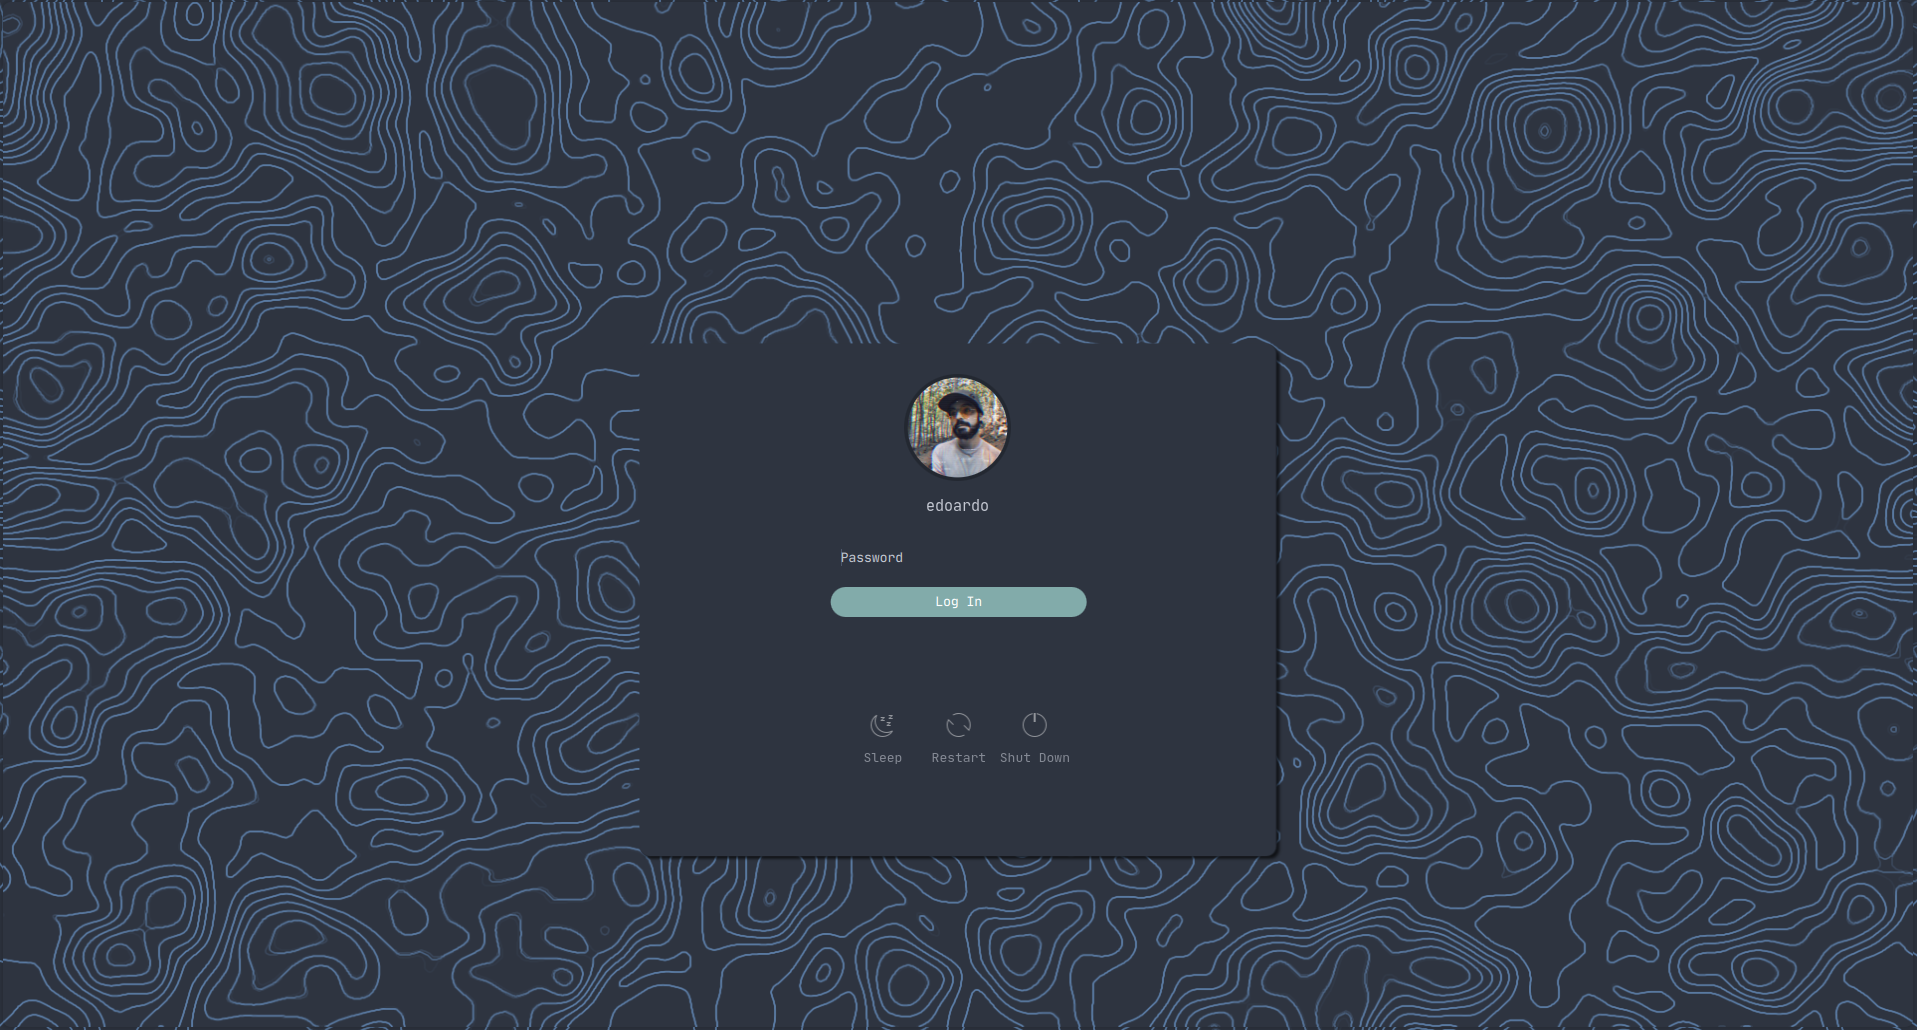
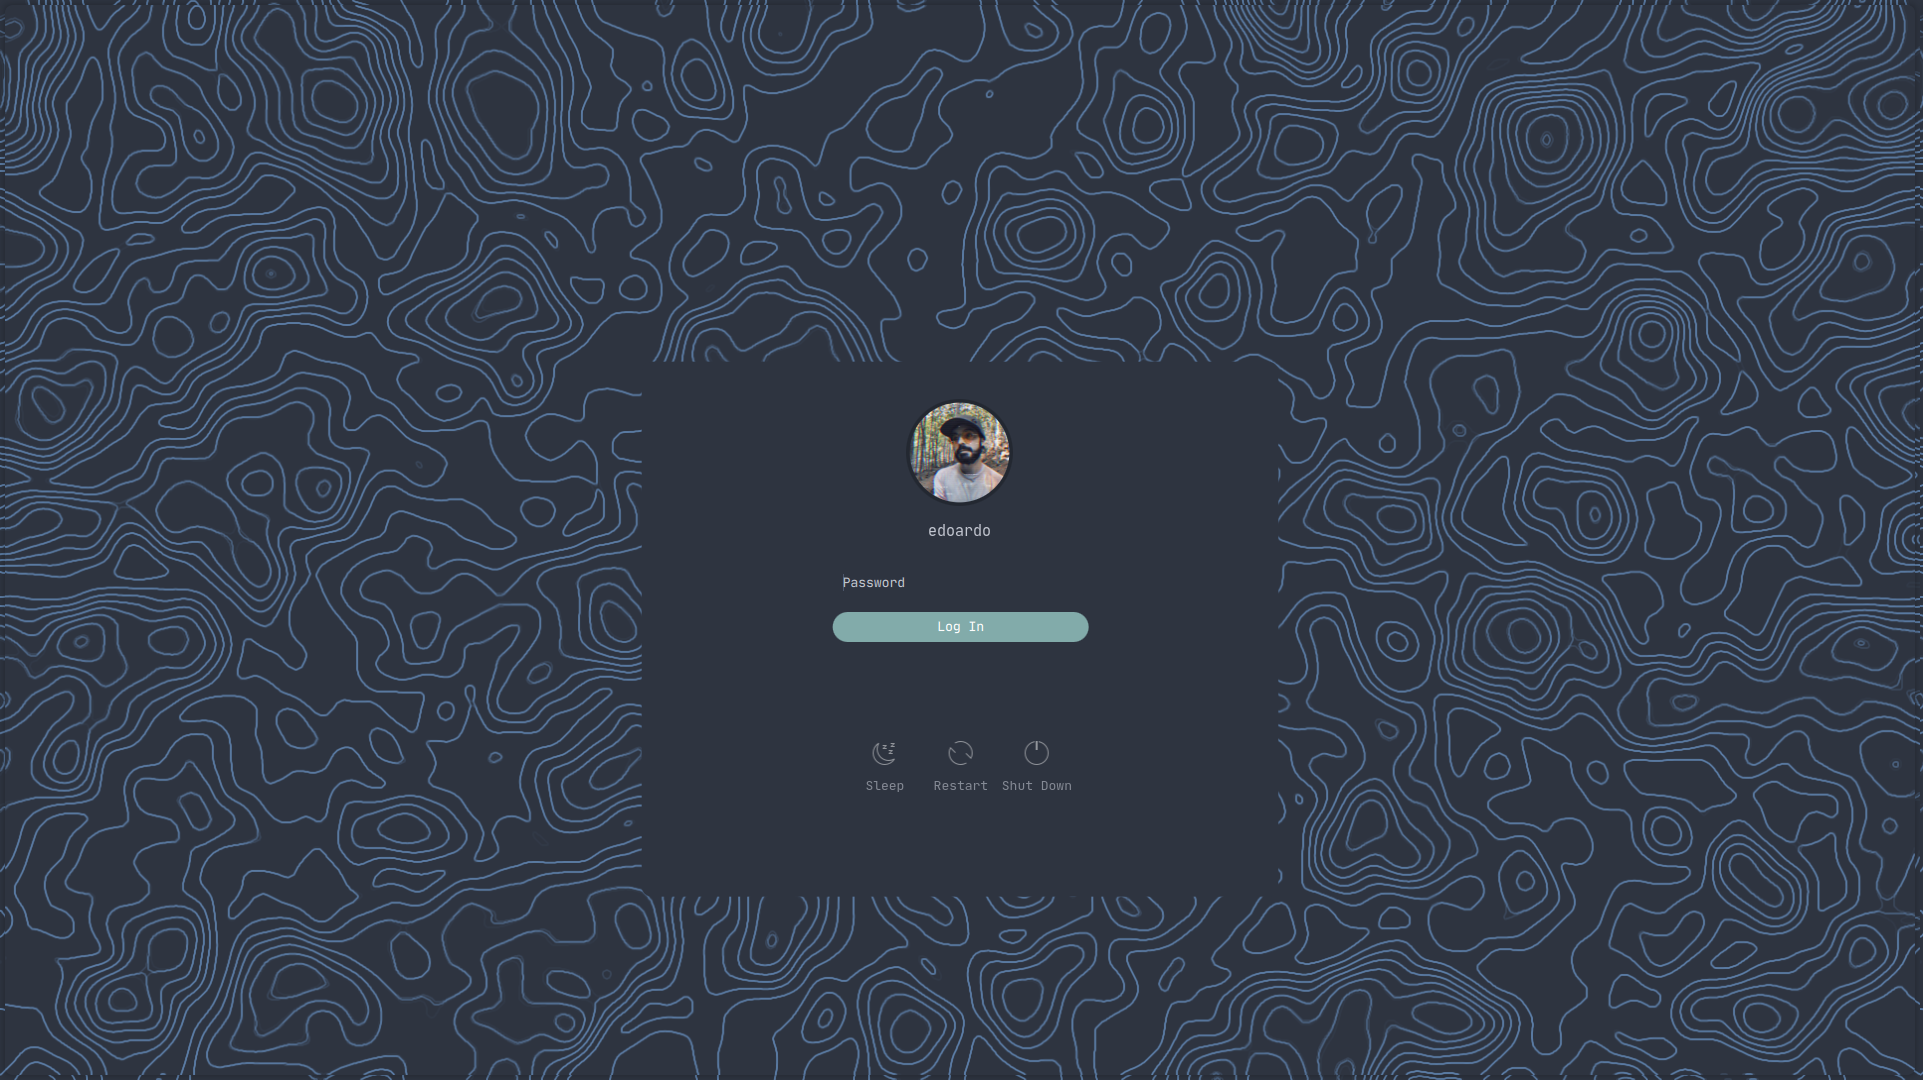
removed shadow

diff --git a/Nord/Main.qml b/Nord/Main.qml
@@ -376,16 +376,6 @@ PlasmaCore.ColorScope {
             color: "#2e3440"
             opacity: 1.0
             z:-1
-            DropShadow {
-                anchors.fill: formBg
-                cached: true
-                horizontalOffset: 3
-                verticalOffset: 3
-                radius: 10
-                samples: 50
-                color: "#aa000000"
-                source: formBg
-            }
         }
 
         ShaderEffectSource {

diff --git a/README.md b/README.md
@@ -2,6 +2,8 @@
 
 This is my custom login screen based on the Nord colorscheme
 
+This version does not have the shadow around the Login Rectangle (as you can see in the screenshot below)
+
 # Installation
 - Move the folder `Nord` in the sddm themes folder
 
